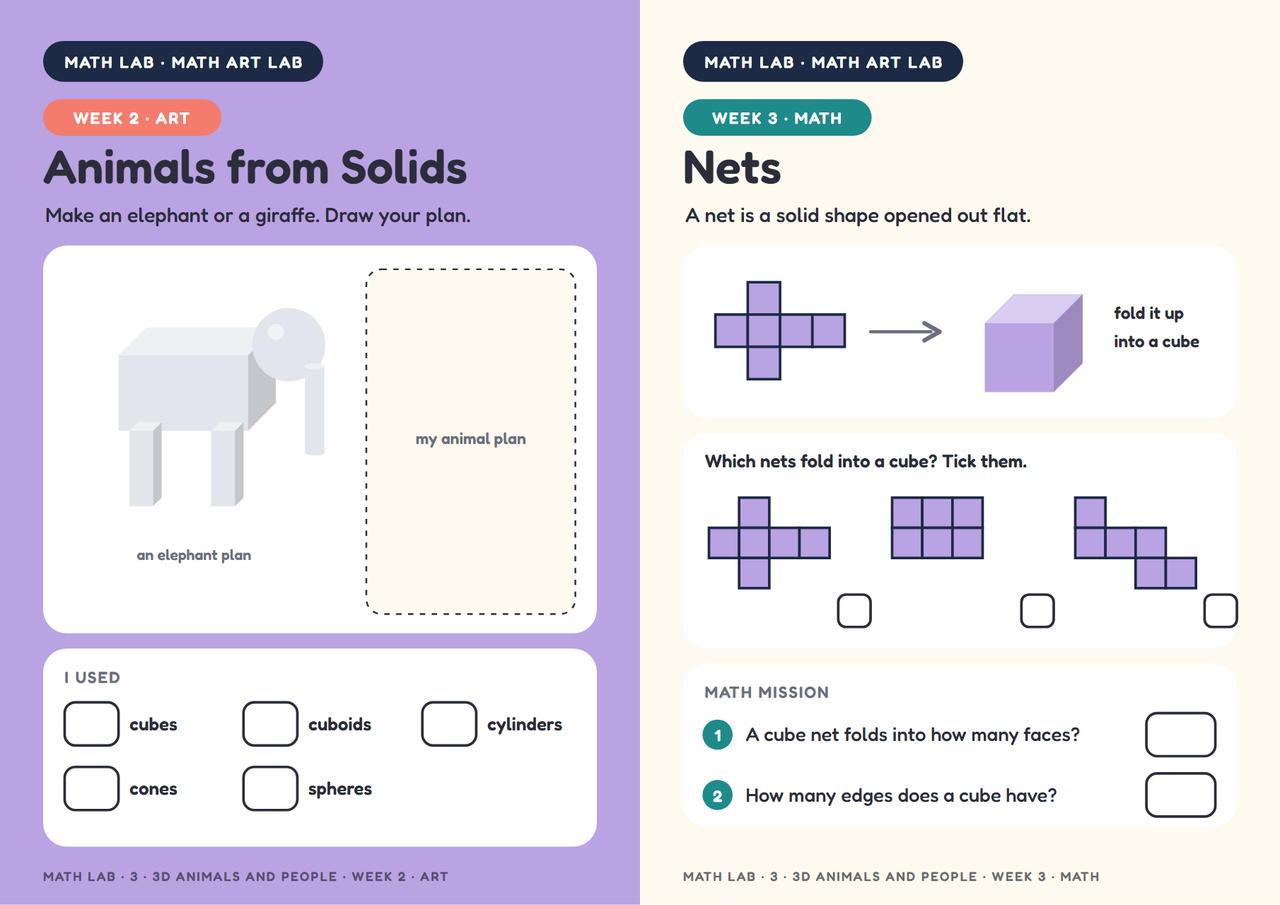
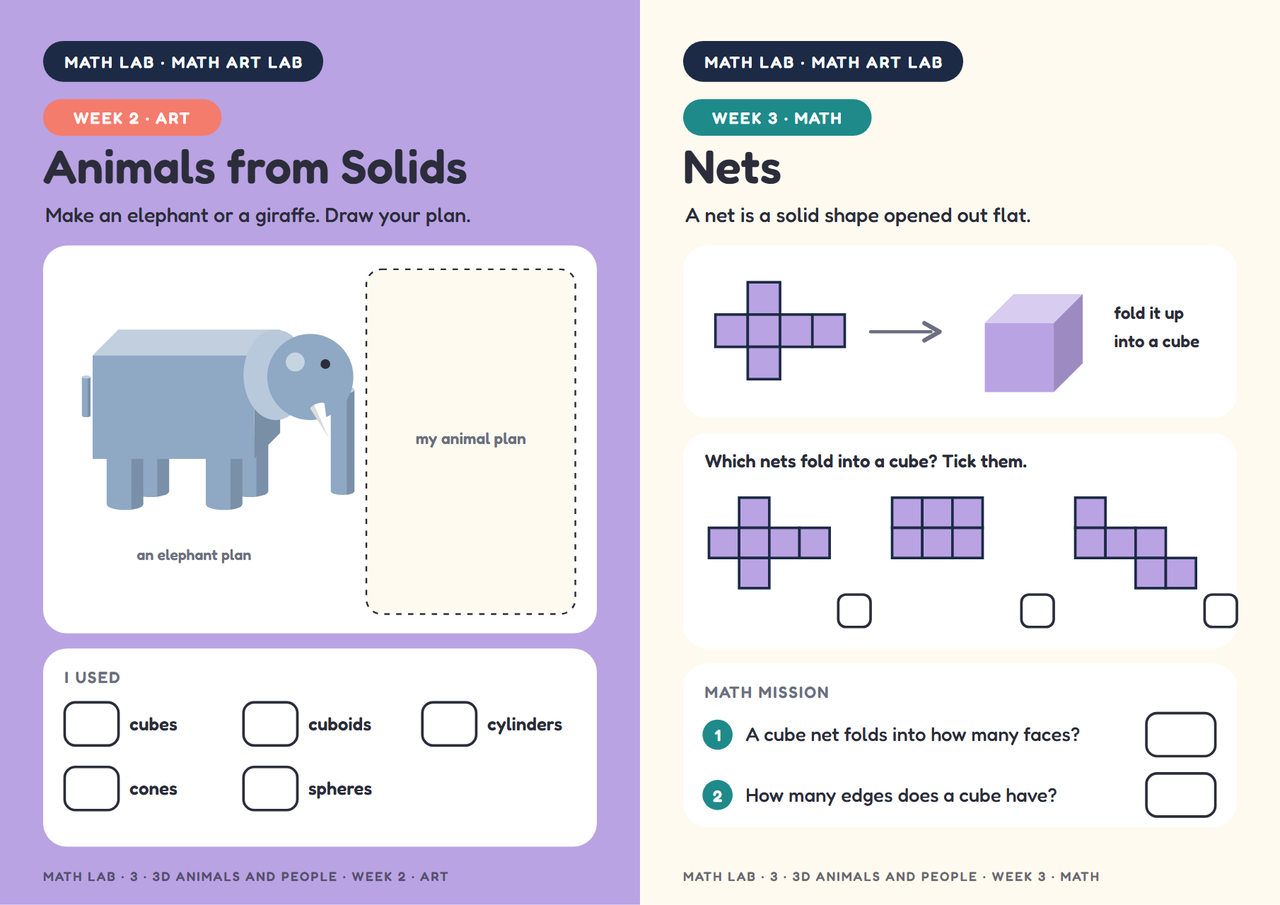
Math Art Lab: fixed solid shapes, 3D person, animal face and elephant pictures

Changed region(s): [[0.0625, 0.3403, 0.2812, 0.5878]]

diff --git a/index.html b/index.html
@@ -6,7 +6,7 @@
 <meta name="viewport" content="width=device-width, initial-scale=1, viewport-fit=cover">
 <title>GPEIS Front Door Sample</title>
 <!-- Home-screen icon: "Add to Home Screen" on a phone gives a GPEIS icon that opens the site full screen like an app -->
-<link rel="manifest" href="manifest.webmanifest?v=202611151605">
+<link rel="manifest" href="manifest.webmanifest?v=202611151629">
 <meta name="theme-color" content="#151e4b">
 <link rel="icon" type="image/png" sizes="192x192" href="assets/icons/icon-192.png">
 <link rel="apple-touch-icon" href="assets/icons/apple-touch-icon.png">
@@ -16,7 +16,7 @@
 <meta name="apple-mobile-web-app-status-bar-style" content="default">
 <link rel="preconnect" href="https://fonts.googleapis.com">
 <link rel="stylesheet" href="https://fonts.googleapis.com/css2?family=Noto+Sans+KR:wght@400;500;700;900&family=Fredoka:wght@500;600&family=Jost:wght@400;500;600&display=swap">
-<link rel="stylesheet" href="app.css?v=202611151605">
+<link rel="stylesheet" href="app.css?v=202611151629">
 </head>
 <body>
 <div class="sample-bar" role="note">
@@ -29,11 +29,11 @@
 <div id="app" aria-live="polite"></div>
 <div id="modal" class="modal" hidden></div>
 <div id="toast" class="toast" hidden></div>
-<script src="regions.js?v=202611151605"></script>
-<script src="books.js?v=202611151605"></script>
-<script src="book-catalog.js?v=202611151605"></script>
-<script src="backend.js?v=202611151605"></script>
-<script src="teaser-overlays.js?v=202611151605"></script>
-<script src="app.js?v=202611151605"></script>
+<script src="regions.js?v=202611151629"></script>
+<script src="books.js?v=202611151629"></script>
+<script src="book-catalog.js?v=202611151629"></script>
+<script src="backend.js?v=202611151629"></script>
+<script src="teaser-overlays.js?v=202611151629"></script>
+<script src="app.js?v=202611151629"></script>
 </body>
 </html>
